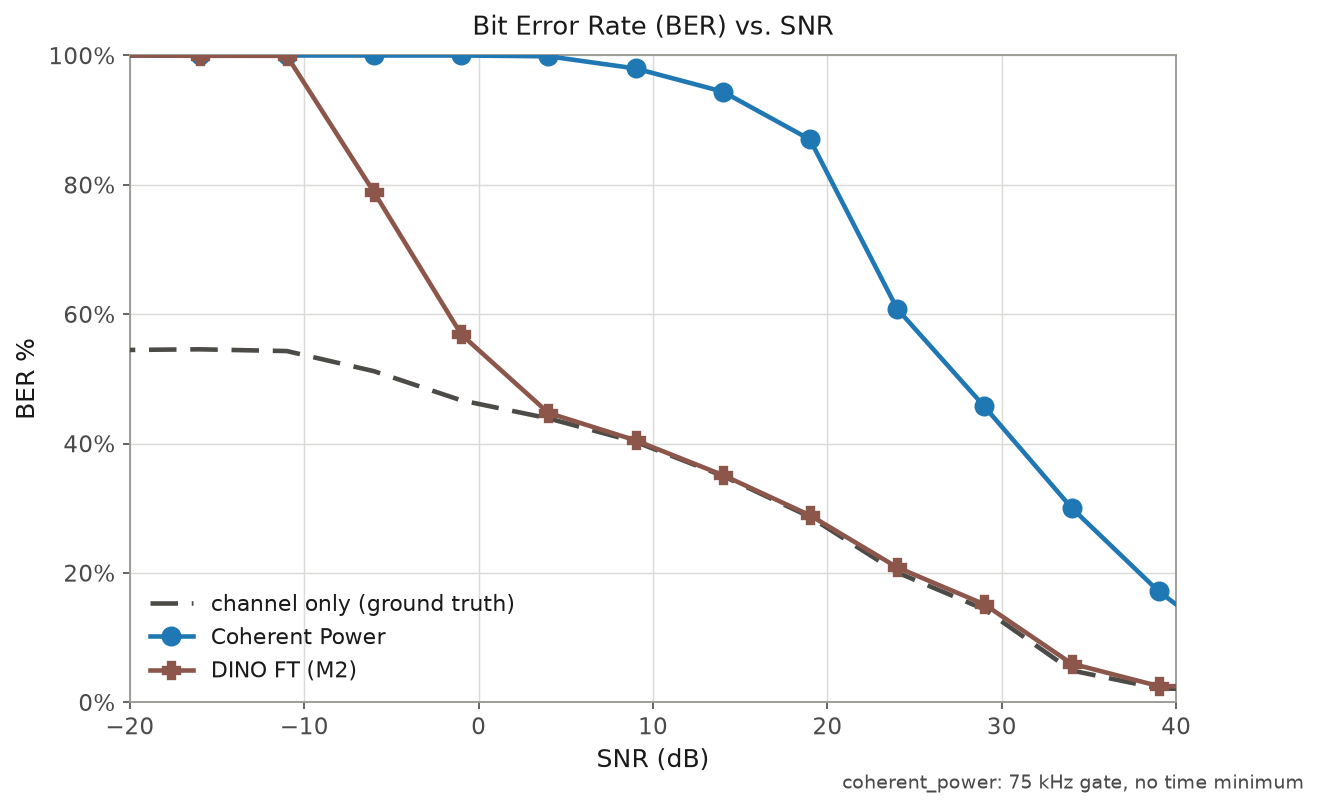
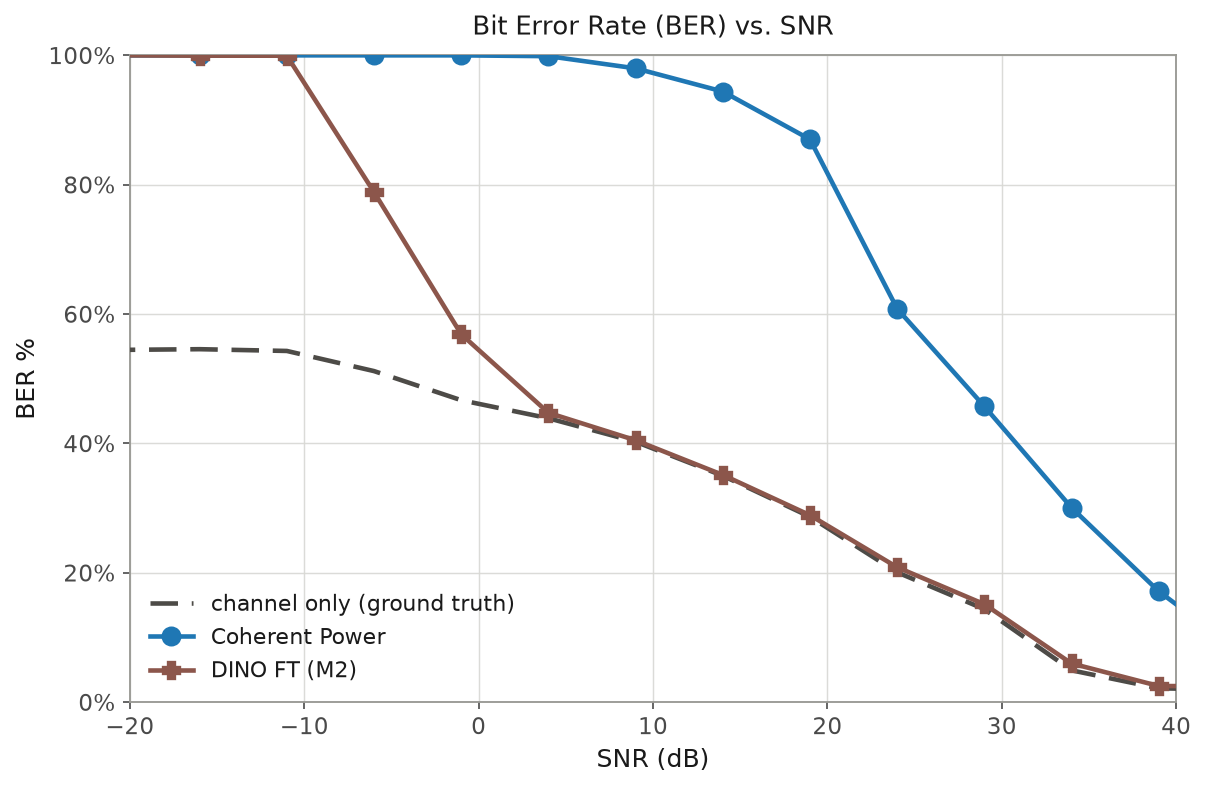
ber_eval: drop the variant sub-label from ber_sweep_overall_v2.png
The v2 presentation figure was specified with a bare title and no subtitle, but the
variant-label stamp added for the 75 kHz folders was landing beneath it. save() now
takes stamp=, and the v2 figure passes stamp=False; every other figure keeps the stamp
so a variant plot still cannot be mistaken for the baseline.

Regenerated results_coh_75k_notime/. The 75 kHz + 1 ms folder's v2 still carries its
stamp and can be regenerated the same way if that one should be bare too.

diff --git a/applications/usrp_wideband_signal_detection/infocom_evals/ber_eval/plot_ber_figs.py b/applications/usrp_wideband_signal_detection/infocom_evals/ber_eval/plot_ber_figs.py
@@ -151,10 +151,11 @@ for L in have:
         CLAIM[det]["det"].append(db); CLAIM[det]["gt"].append(gb); CLAIM[det]["n"].append(n)
 
 
-def save(fig, out):
-    """Save, stamping the variant label (if any) so a 75k/1ms figure is never
-    mistaken for the baseline one."""
-    if SUFFIX:
+def save(fig, out, stamp=True):
+    """Save, stamping the variant label (if any) so a variant figure is never mistaken
+    for the baseline one. stamp=False for figures specified to carry no sub-label
+    (the v2 presentation figure), where the caption belongs in the surrounding doc."""
+    if SUFFIX and stamp:
         fig.text(0.995, 0.002, SUFFIX, ha="right", va="bottom", fontsize=9, color=INK2)
     fig.savefig(out)
     plt.close(fig)
@@ -348,7 +349,7 @@ ax.set_ylabel("BER %")
 ax.set_title("Bit Error Rate (BER) vs. SNR", pad=10)  # no subtitle
 ax.legend(loc="lower left", fontsize=10.5, framealpha=0.0)
 out = RES / "ber_sweep_overall_v2.png"
-save(fig, out)
+save(fig, out, stamp=False)          # spec: bare title, no sub-label of any kind
 
 # ============================== B2. per-class sweep (restyled) ===================== #
 CLS_OVER = {d: {c: dict(snr=[], ber=[]) for c in CLASSES} for d in [GT] + DETS}
